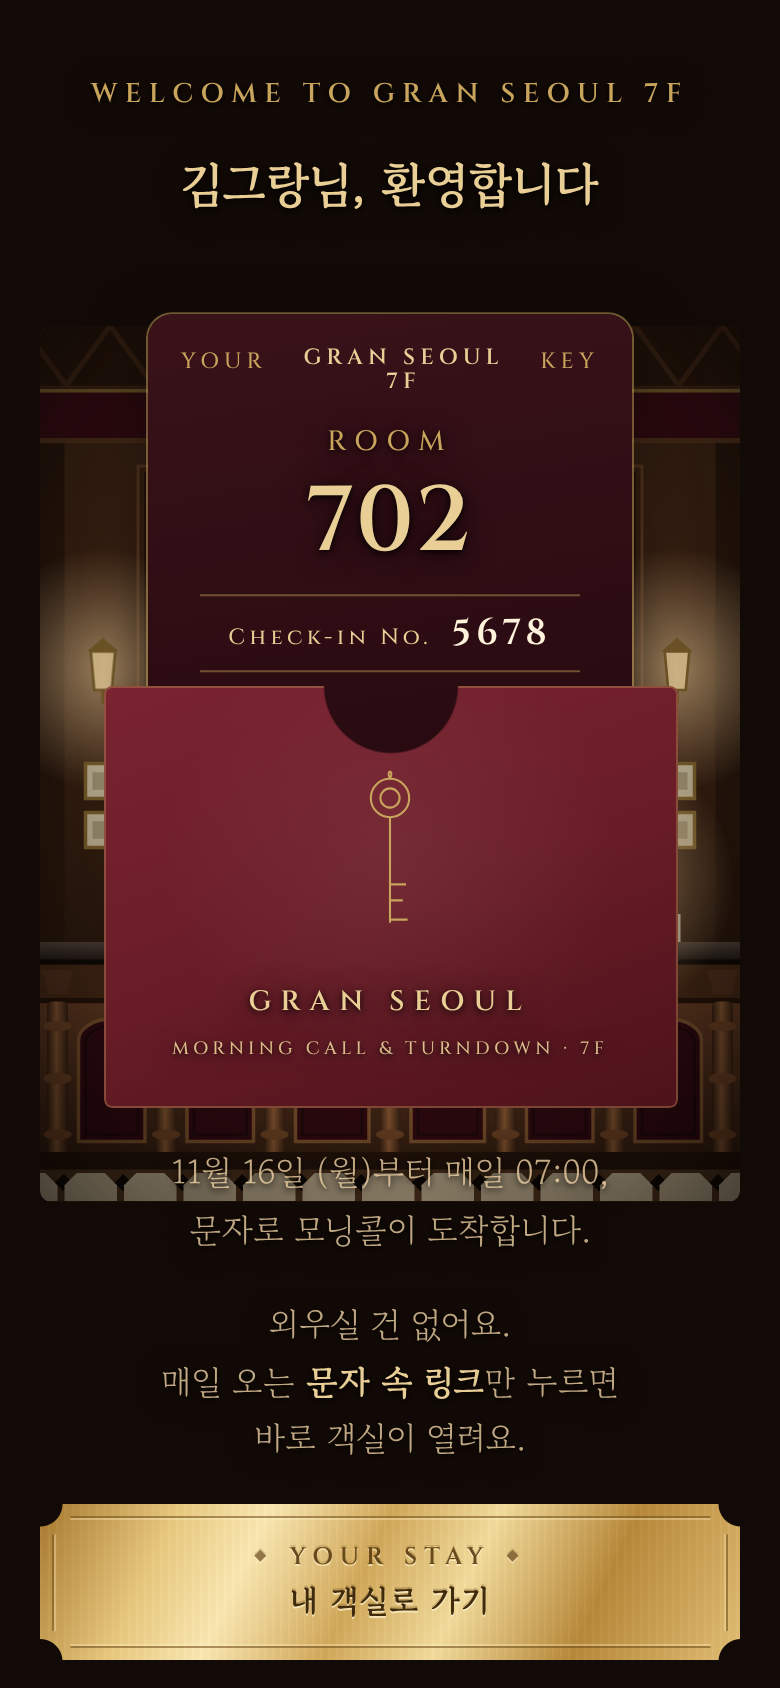
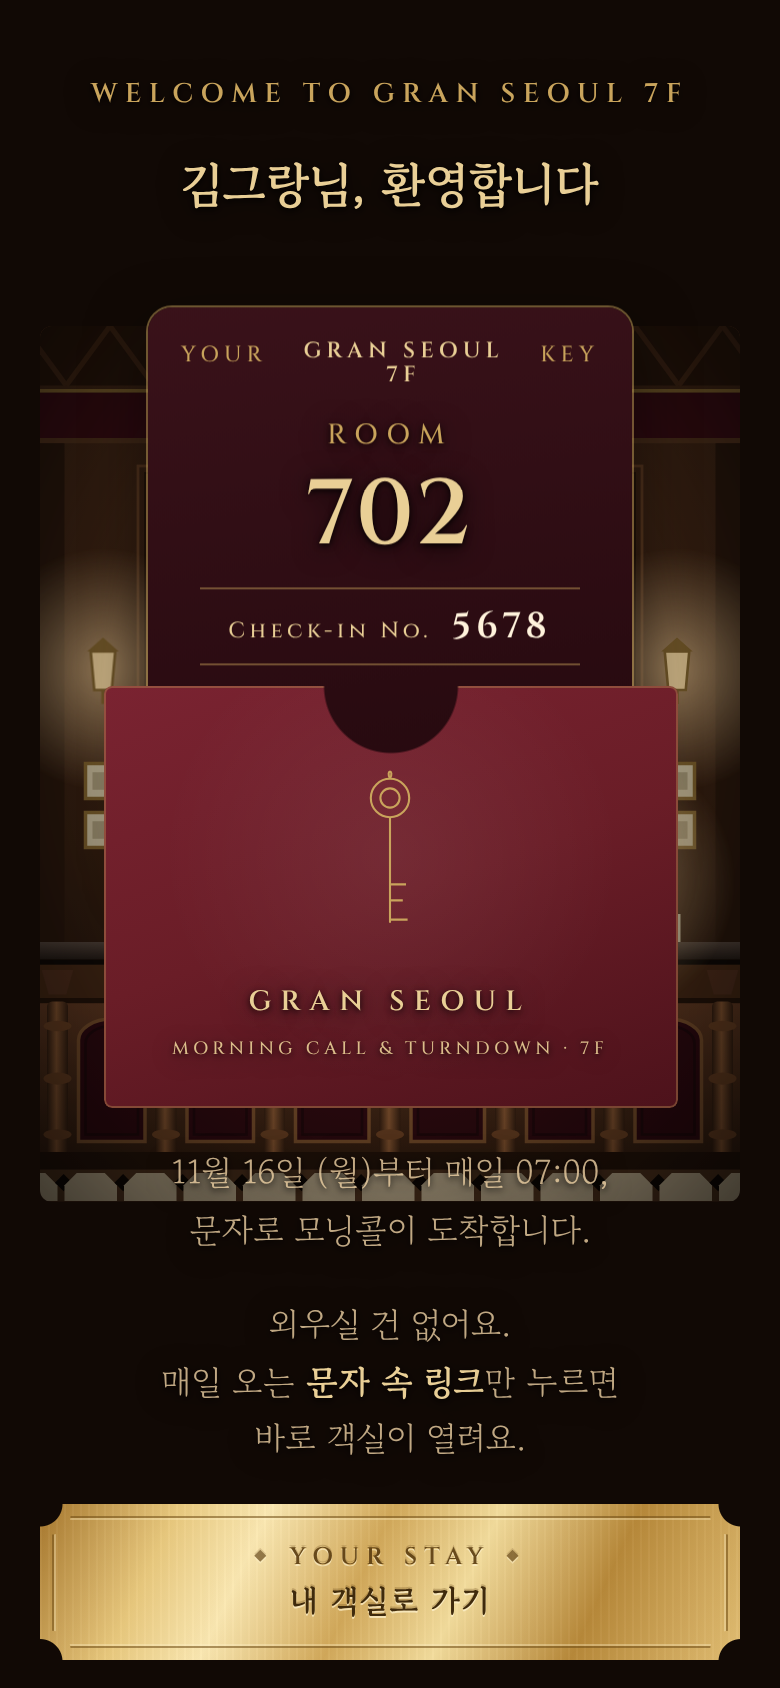
Key card screen: deepen background dim to 75%
Claude-Session: https://claude.ai/code/session_011z6wvs2Gb5um8vyCmLK585

Changed region(s): [[0.1846, 0.154, 0.8, 0.4005]]

diff --git a/index.html b/index.html
@@ -173,7 +173,7 @@ body.dark #ceiling{display:none}
 #wbg::after{content:'';position:absolute;inset:0;z-index:2;background:#000;opacity:0}
 body.lobby #wbg{display:flex}
 body.lobby #wbg::after{animation:dimIn 2.4s .3s ease forwards}
-@keyframes dimIn{to{opacity:.6}}
+@keyframes dimIn{to{opacity:.75}}
 body.lobby #s-welcome :is(p,h2){text-shadow:0 1px 3px rgba(0,0,0,.9),0 2px 14px rgba(0,0,0,.8)}
 
 /* 체크인 모션 화면 */
